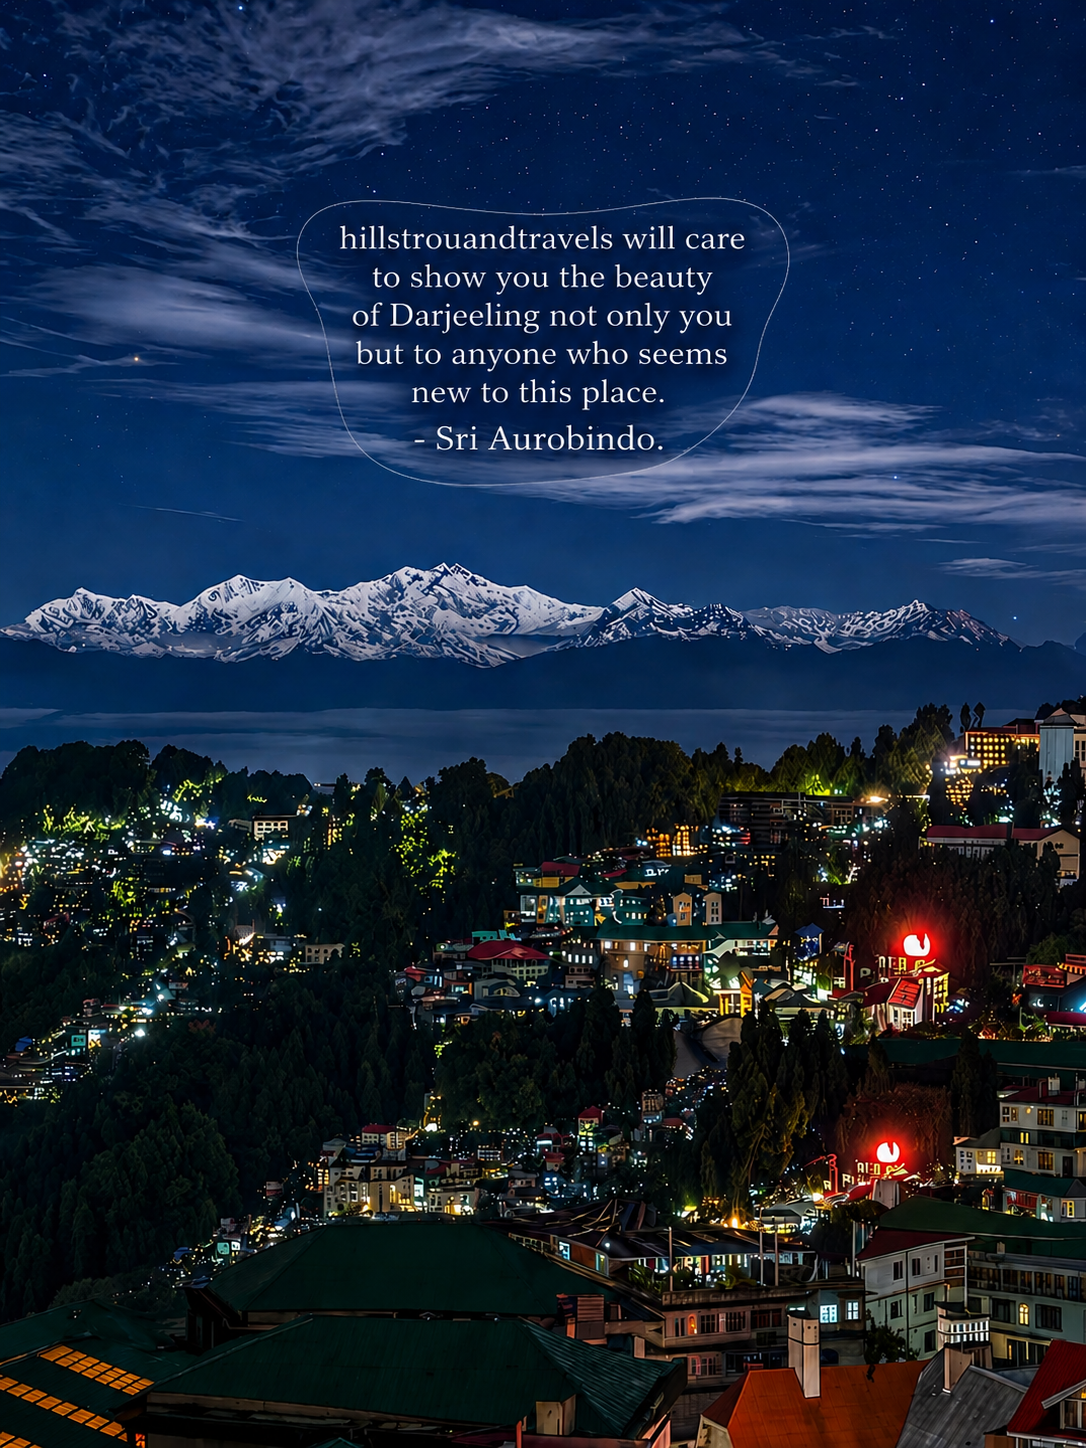
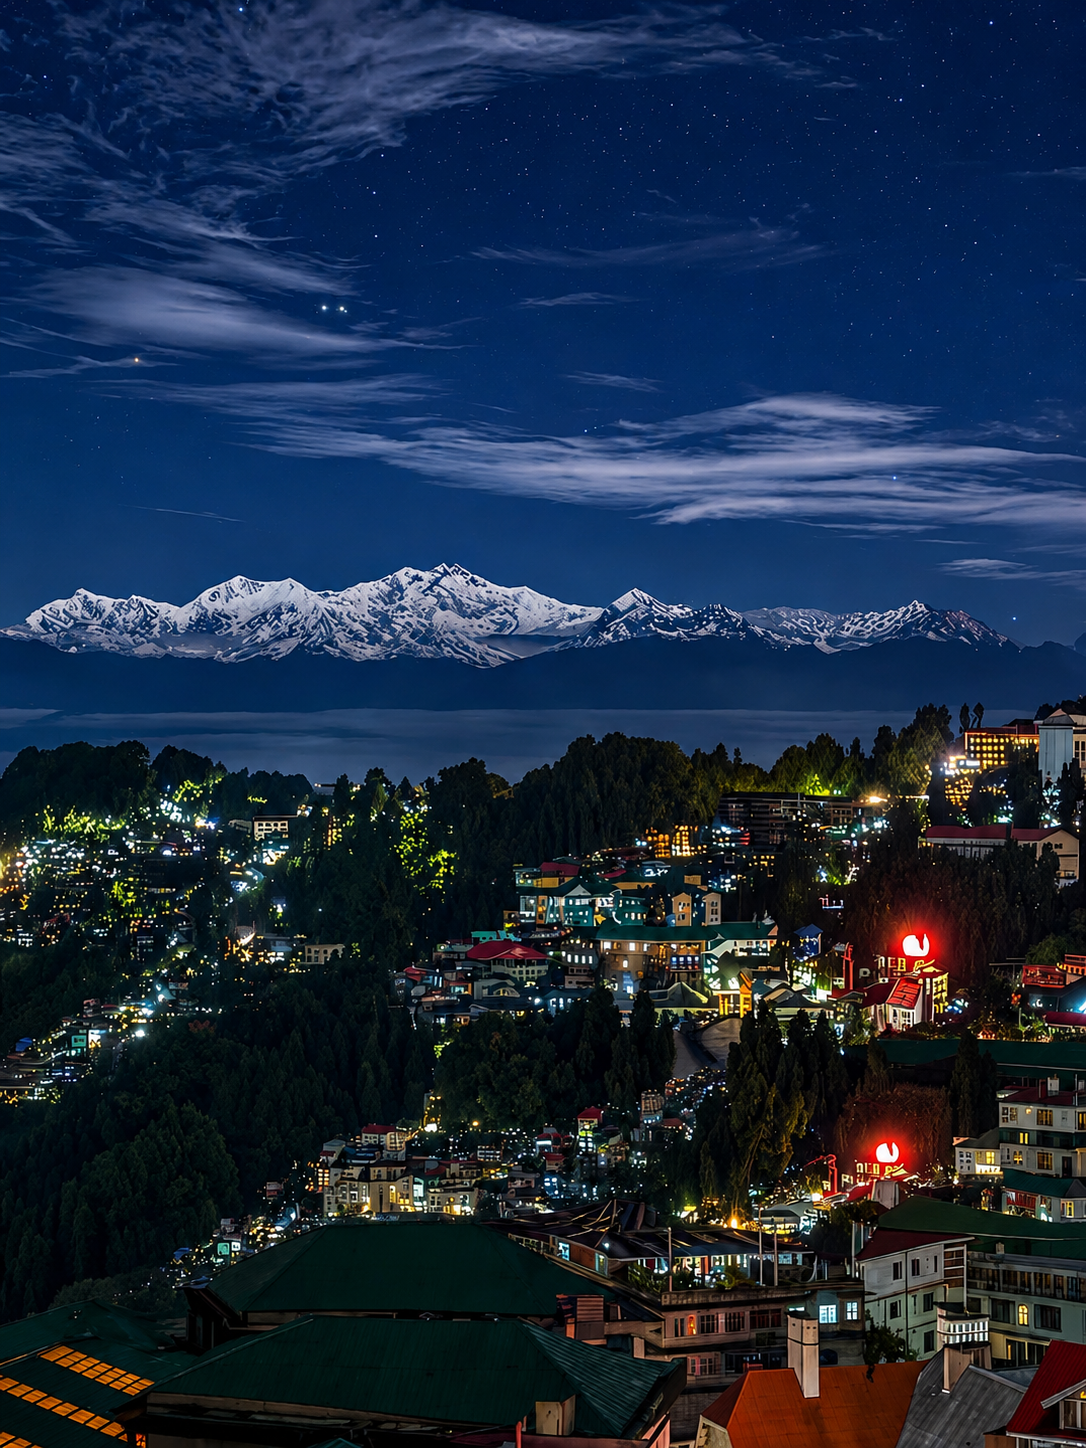
refactor: push swiper cards higher in viewport, remove subtitle, and update mobile hero images

diff --git a/app/styles/index.css b/app/styles/index.css
@@ -2239,13 +2239,13 @@ a, button, [role="button"], select, input {
   display: flex;
   flex-direction: column;
   align-items: center;
-  padding: 100px 16px 36px;
+  padding: 85px 16px 24px;
   overflow: hidden;
 }
 
 .ps-header {
   width: 100%;
-  margin-bottom: 30px;
+  margin-bottom: 12px;
 }
 
 .ps-header-main {
@@ -2325,8 +2325,8 @@ a, button, [role="button"], select, input {
 .ps-stage {
   position: relative;
   width: min(440px, 94vw);
-  height: 560px;
-  margin: 20px auto 70px;
+  height: 510px;
+  margin: 10px auto 60px;
   overflow: visible;
   touch-action: none;
 }
@@ -2912,13 +2912,13 @@ a, button, [role="button"], select, input {
 /* Responsive — tablets & phones */
 @media (max-width: 768px) {
   .ps-root {
-    padding: 88px 12px 28px;
+    padding: 74px 12px 20px;
   }
 
   .ps-header-main {
     flex-direction: column;
     align-items: stretch;
-    gap: 16px;
+    gap: 12px;
   }
 
   .ps-tabs-container {
@@ -2932,8 +2932,8 @@ a, button, [role="button"], select, input {
 
   .ps-stage {
     width: min(380px, 94vw);
-    height: 500px;
-    margin: 10px auto 80px;
+    height: 450px;
+    margin: 5px auto 65px;
     border-radius: 22px;
   }
 
@@ -3002,8 +3002,8 @@ a, button, [role="button"], select, input {
 @media (max-width: 420px) {
   .ps-stage {
     width: min(330px, 94vw);
-    height: 430px;
-    margin: 10px auto 70px;
+    height: 390px;
+    margin: 5px auto 60px;
   }
 
   .ps-content {

diff --git a/app/js/pages/react/SwipePackages.jsx b/app/js/pages/react/SwipePackages.jsx
@@ -151,11 +151,6 @@ export function SwipePackages({ query }) {
               <i className="fa-solid fa-sparkles" /> {activeTab === 'experiences' ? 'Audience Tiers' : 'Corridor Explorer'}
             </span>
             <h1 className="ps-title">{activeTab === 'experiences' ? 'Experiences' : 'Destinations'}</h1>
-            <p className="ps-sub">
-              {activeTab === 'experiences'
-                ? 'Handcrafted tours optimized for specific traveler profiles.'
-                : 'Browse pristine geographic sightseeing circuits.'}
-            </p>
           </div>
 
           <div className="ps-tabs-container">
